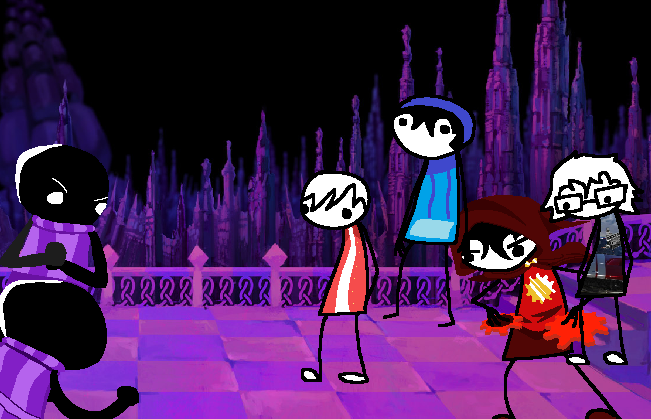
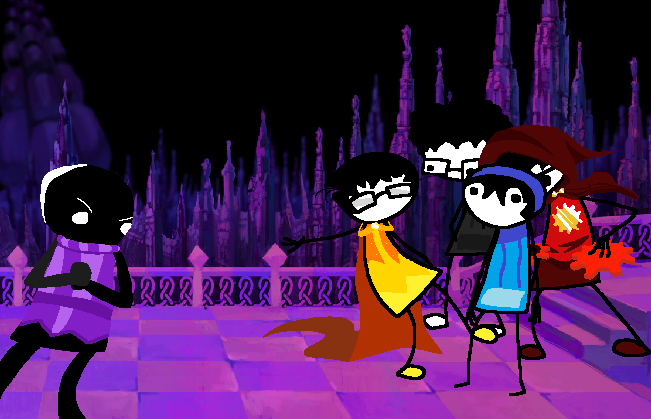
Added new images and specific Character Data

diff --git a/main.py b/main.py
@@ -122,6 +122,7 @@ SR_STEPHEN_GIF = "https://media.discordapp.net/attachments/1426812344549380136/1
 SSR_JAYDEN_GIF = "https://media.discordapp.net/attachments/1426812344549380136/1441662516672331836/SSR_JAYDEN.gif?ex=692a8558&is=692933d8&hm=c5f5376d3603ce635598548977465872e7a3662802986c6f742c1f590eadd7a4&=&width=813&height=524"
 SR_HOMESTUCK_GIF = "https://media.discordapp.net/attachments/907662210619289600/1441689825911505026/SR_HOMESTUCK.gif?ex=6941b107&is=69405f87&hm=181544c05734a721ea53bbe630dcb4b25ed7b95327661a807b97bdba81cc7506&=&width=813&height=524"
 SSR_SCOTTIE_GIF = "https://media.discordapp.net/attachments/1426812344549380136/1441591428042985492/SSR_SCOTTIE.gif?ex=69551be3&is=6953ca63&hm=9a1141a0f327f2f16ed80b996243679e62491b0fa2b985babdc1bc09d82cccaa&=&width=813&height=524"
+RECYCLE_GIF = "https://media.discordapp.net/attachments/796742546910871562/1455728132240703593/recycled_B.gif?ex=6955c7f8&is=69547678&hm=a047b1b23feab6ea79f4c79303bd9ee6bfba8ba9b800813754e05b9615529585&=&width=678&height=438"
 
 # Use abraizeEmbed as example for other characters
 # HP attack and defense are integers
@@ -516,14 +517,18 @@ async def inventory(ctx):
         rolls = user_data.get("rolls", 0)
         inventory = user_data.get("inventory", {})
 
-        ssr_inventory = {char: count for char, count in inventory.items() if char in ssrChar}
+      #  special_inventory = {char: count for char, count in inventory.items() if char in specialChar}
+        ssr_inventory = {char: count for char, count in inventory.items() if char in ssrChar or char in specialChar}
         sr_inventory = {char: count for char, count in inventory.items() if char in srChar}
         r_inventory = {char: count for char, count in inventory.items() if char in rChar}
 
         embed = discord.Embed(title=f"{ctx.user.display_name}'s Inventory", color=0x3f48cc)
 
+     #   if special_inventory:
+      #      embed.add_field(name="Special Characters:", value="\n".join([f"{characterTitles[char]}: {count}" for char, count in special_inventory.items()]), inline=False)
         if ssr_inventory:
             embed.add_field(name="SSR Characters:", value="\n".join([f"{characterTitles[char]}: {count}" for char, count in ssr_inventory.items()]), inline=False)
+
         if sr_inventory:
             embed.add_field(name="SR Characters:", value="\n".join([f"{characterTitles[char]}: {count}" for char, count in sr_inventory.items()]), inline=False)
         if r_inventory:
@@ -551,7 +556,8 @@ async def char(interaction: discord.Interaction, character_name: app_commands.Ch
     if user_data:
         inventory = user_data.get("inventory", {})
         if inventory.get(char_dev_name, 0) < 1:
-            await interaction.followup.send("You do not own this character yet!")
+            NO_OWN_PNG = "./broke.png"
+            await interaction.followup.send(file=discord.File(NO_OWN_PNG))
             return
     else:
         await interaction.followup.send("No inventory data found.")
@@ -587,13 +593,7 @@ async def char(interaction: discord.Interaction, character_name: app_commands.Ch
     elif char_dev_name == "sr_homestuck":
         embed = sr_homestuckEmbed()
     elif char_dev_name == "ssr_scottie":
-        # ssr_scottie character details are not yet available
-        embed = discord.Embed(
-            title="[Eternal Guardian]",
-            description="Scottie Jenkins",
-            color=0x3f48cc
-        )
-        embed.add_field(name="Status", value="Character information coming soon!", inline=False)
+        embed = ssr_scottieEmbed()
     else:
         await interaction.followup.send(f"Character **{char_dev_name}** does not exist!")
         return
@@ -632,7 +632,8 @@ async def recycle(ctx: discord.Interaction, character_name: app_commands.Choice[
 
         # Check if user owns the character
         if char_count < 1:
-            await ctx.response.send_message("You do not own this character yet!")
+            NO_OWN_PNG = "./broke.png"
+            await ctx.response.send_message(file=discord.File(NO_OWN_PNG))
             return
 
         if char_count >= amount:
@@ -697,9 +698,9 @@ async def recycle(ctx: discord.Interaction, character_name: app_commands.Choice[
 
 
                   #  if rolls_to_add == 0:
-                    await ctx.followup.send(f"Recycled **{char_title} x{amount}**. Your total rolls is **{rolls_gain + user_data.get('rolls', 0)}** rolls.")
-                #    else:
-                 #       await ctx.followup.send(f"Recycled **{character_name} x{amount}** for **{rolls_to_add}** rolls!, Your total rolls is **x{user_data.get('rolls', 0) + rolls_to_add}** rolls.")
+                    embed = discord.Embed(title=f"Recycled **{char_title} x{amount}**. Your total rolls is **{rolls_gain + user_data.get('rolls', 0)}** rolls.", color=0x3f48cc)
+                    embed.set_image(url=RECYCLE_GIF)
+                    await ctx.followup.send(embed=embed)
                 else:  # no_button pressed
                     await ctx.followup.send("Recycling cancelled.")
             except asyncio.TimeoutError:
@@ -771,7 +772,8 @@ async def team(ctx: discord.Interaction, char1: app_commands.Choice[str] = None,
         inventory = user_data.get("inventory", {})
         for i, char in enumerate(team_chars):
             if inventory.get(char, 0) < 1:
-                await ctx.response.send_message(f"You do not own this character yet! **{team_titles[i]}**")
+                NO_OWN_PNG = "./broke.png"
+                await ctx.response.send_message(file=discord.File(NO_OWN_PNG))
                 return
 
     # Update team in database
@@ -827,6 +829,14 @@ enemySpots = {
     "Jack Noir": (0, 150)
 }
 
+enemyAttributes = {
+    "Ruffian": [175, 5, 5, "0%", "80%", "Punch"],
+    "Grunt": [400, 25, 45, "0%", "65%", "Punch", "Slam, Deal 15 Damage to all party members"],
+    "Spearman": [175, 5, 5, "0%", "80%", "Punch", "Swipe, Deal damage to all party members", "Stab, Apply 15%% attack bonus to self for this turn and deal damage"],
+    "Agent": [175, 5, 5, "0%", "80%", "Punch", "Sneak, Add 15%% evasion to self for this turn"],
+    "Jack Noir": [1000, 30, 10, "5%", "90%", "Stab", "Shiv, Deal damage and apply bleed (-3% hp per turn) for one turn, this can stack", "Slash, Deal only 5 damage to all party members, but apply bleed to all party members for one turn.", "Extra Passive: Attack lowest health party member each turn"]
+}
+
 # ============================================================================
 # DYNAMIC CHARACTER POSITIONING SYSTEM
 # ============================================================================
@@ -867,9 +877,9 @@ enemySpots = {
 characterFeet = {
     "r_abraize": (53, 252),
     "r_abraize2": (57, 226),
-    "sr_abraize": (87, 235),  # File doesn't exist yet, using estimated values
+    "sr_abraize": (70, 209),
     "ssr_abraize": (87, 235),
-    "r_trey": (72, 263),  # File doesn't exist yet, using estimated values
+    "r_trey": (52, 247),
     "sr_trey": (68, 263),
     "ssr_trey": (72, 291),
     "r_noah": (39, 214),
@@ -895,7 +905,7 @@ characterFloatingOffset = {
 # Note: These use 0-based indexing (slot_index 0-3 in code)
 teamSlotGroundPositions = [
     (500, 400),  # Index 0 (Slot 1 in /viewteam) - front right
-    (380, 380),  # Index 1 (Slot 2 in /viewteam) - middle right  
+    (380, 380),  # Index 1 (Slot 2 in /viewteam) - middle right
     (580, 360),  # Index 2 (Slot 3 in /viewteam) - back right
     (460, 340),  # Index 3 (Slot 4 in /viewteam) - far back
 ]
@@ -903,18 +913,18 @@ teamSlotGroundPositions = [
 def calculate_character_position(char_name, slot_index, background_size):
     """
     Calculate the paste position for a character based on their feet position.
-    
+
     Args:
         char_name: Character identifier (e.g., "r_abraize")
         slot_index: Team slot index (0-3)
         background_size: Tuple of (width, height) of the background image
-        
+
     Returns:
         Tuple of (x, y) coordinates where the character image should be pasted
     """
     # Get the target ground position for this slot
     target_x, target_y = teamSlotGroundPositions[slot_index]
-    
+
     # Get the character's feet position within their sprite
     # If not defined, calculate default position from the image
     if char_name not in characterFeet:
@@ -929,37 +939,37 @@ def calculate_character_position(char_name, slot_index, background_size):
             feet_x, feet_y = 0, 0
     else:
         feet_x, feet_y = characterFeet[char_name]
-    
+
     # Calculate where to paste the character so their feet align with the target
     paste_x = target_x - feet_x
     paste_y = target_y - feet_y
-    
+
     # Apply floating offset if this character is a floater
     floating_offset = characterFloatingOffset.get(char_name, 0)
     paste_y += floating_offset
-    
+
     # Prevent cutoff on the edges
     char_image_path = characterImages.get(char_name)
     if char_image_path and os.path.exists(char_image_path):
         char_img = Image.open(char_image_path)
         char_width, char_height = char_img.size
-        
+
         # Ensure character doesn't go off the right edge
         if paste_x + char_width > background_size[0]:
             paste_x = background_size[0] - char_width
-        
+
         # Ensure character doesn't go off the bottom edge
         if paste_y + char_height > background_size[1]:
             paste_y = background_size[1] - char_height
-        
+
         # Ensure character doesn't go off the left edge
         if paste_x < 0:
             paste_x = 0
-            
+
         # Ensure character doesn't go off the top edge
         if paste_y < 0:
             paste_y = 0
-    
+
     return (int(paste_x), int(paste_y))
 
 
@@ -990,7 +1000,7 @@ async def battle(interaction: discord.Interaction,enemies:app_commands.Choice[st
     # comnbine background and r_abraize images ontop one another using PIL
     background_image = Image.open(background_file)
     background_size = background_image.size
-    
+
     # Place enemies first (in the background layer)
     if enemies.name == "Grunt":
         enemy_image = Image.open(enemyImages[enemies.name])
